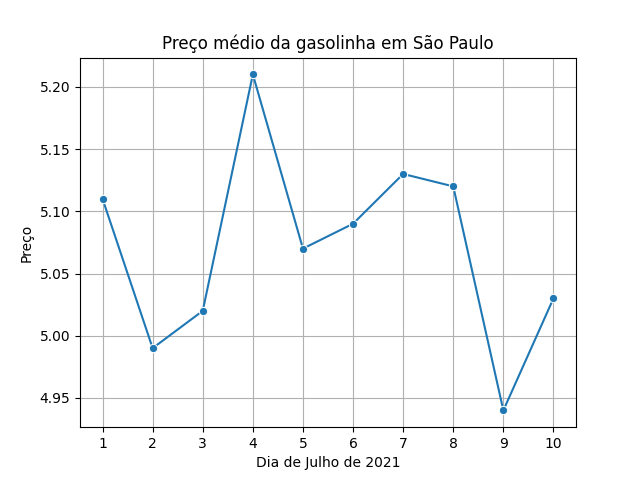
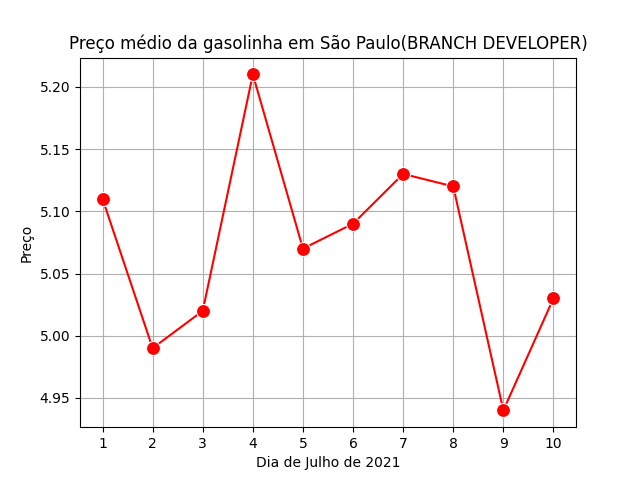
realizando alterações no código na nova branch 'developer'

diff --git a/gasolina.py b/gasolina.py
@@ -1,5 +1,3 @@
-#importando as bibliotecas e passando o caminho do arquivo csv no diretório
-
 import pandas as pd
 import seaborn as sns
 import matplotlib.pyplot as plt
@@ -12,12 +10,13 @@ df_gasolina.head()
 
 #Criando o gráfico
 
-sns.lineplot(x='dia', y='venda', data=df_gasolina, marker='o')
+sns.lineplot(x='dia', y='venda', data=df_gasolina, marker='o', markersize=10, color='red')
 plt.xlabel('Dia de Julho de 2021')
 plt.ylabel('Preço')
-plt.title('Preço médio da gasolinha em São Paulo')
+plt.title('Preço médio da gasolinha em São Paulo(BRANCH DEVELOPER)')
 plt.xticks(df_gasolina['dia'])
 plt.grid(True)
 plt.savefig('gasolina.png')
 plt.show()
+
 
